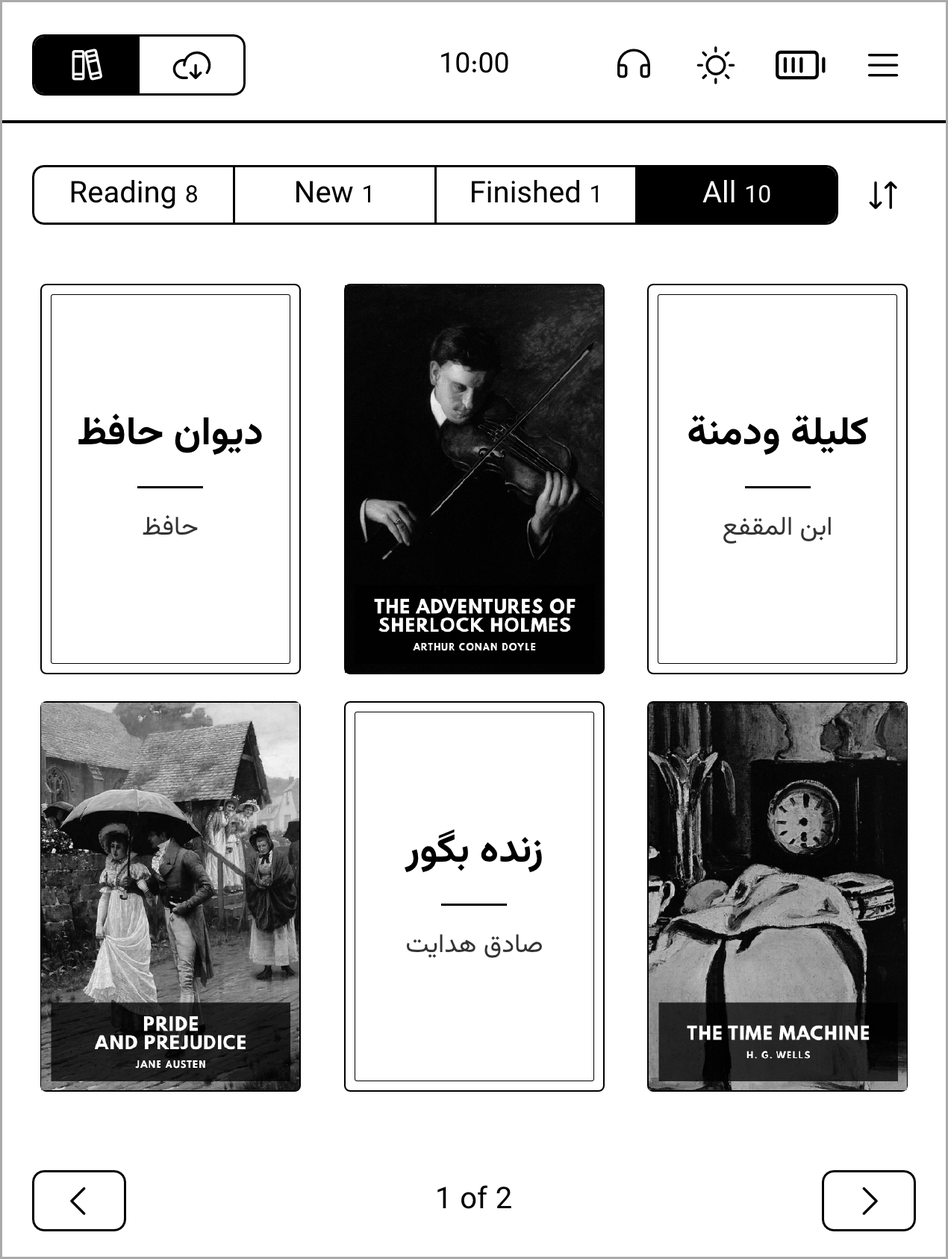
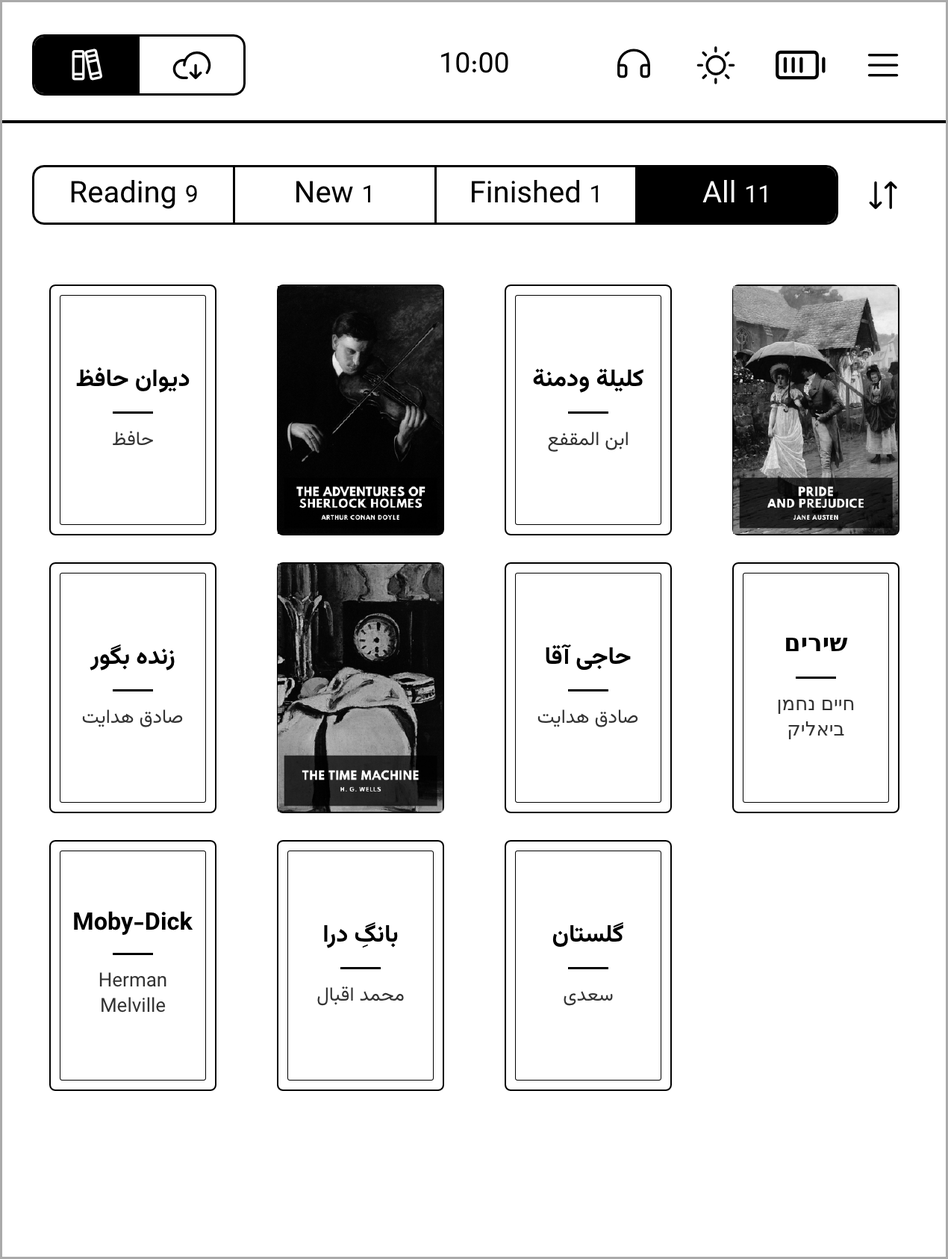
Library: four covers a row, three rows a page; the year in the book's dialog
Twelve books a page in place of six: half the page turns, each a full refresh on e-ink; a cover about 2 cm wide
is still recognised (3 by 3 left a wide gap between its columns for no larger cover). The covers of words scale
with the cover: the title's sizes in proportion, the author never under 26 px (about 6 pt at 300 ppi), the sides
clear of the frame. The year is off the covers (3.4 pt there) and in the book's dialog as Published. The kept
cover pictures are made for the narrower tile. A catalogue's grid stays three a row. The README's library
screenshot drawn anew: eleven books on one page.

diff --git a/docs/design/system.html b/docs/design/system.html
@@ -81,7 +81,7 @@ dialog#view .close { position: sticky; top: 0; float: right; font: inherit; font
 <div class="card"><b>Rule: A panel closes to where it came from</b><p>A tap outside a panel closes the panel and leaves the bar and dock it was opened from; a second tap on the page closes those. (Decided 2026-11-01 after use: kept, it saves a tap when moving between Light and Text.)</p><small>Kept by: by eye (the device walk closes Light, then uses the bar)</small></div>
 <div class="card"><b>Rule: A control says what it is</b><p>A control whose value alone does not say what it sets has its name at the start of its line, regular, in the ink&#39;s colour, the control after it with its value regular (a setting&#39;s row: Sleep after, Follow book language; a labelled dropdown: Catalogue). Neither is bold; the control&#39;s border marks what is tapped. One under a heading, or whose value says it, has no name. As Apple&#39;s settings rows, Material&#39;s list items and WCAG&#39;s labels (2.4.6, 3.3.2): a name that stays, not a placeholder (2026-11-23).</p><small>Kept by: by eye (the samples of the dropdown, stepper and toggle on the page)</small></div>
 <div class="card"><b>Rule: Direction is declared, not guessed</b><p>A piece of content&#39;s direction is the one its source declares: a book&#39;s title and author the book&#39;s language (its dc:language), a feed&#39;s text its own language when the feed gives one (xml:lang). Never one assumed from something else: a feed&#39;s summary, publisher or subjects, a value in a book&#39;s details are not the book&#39;s, and a feed may summarise a Farsi book in English, as FarsiEPUB&#39;s (2026-11-24). Undeclared, it is the engine&#39;s to decide with the standard, dir=&#34;auto&#34; on its block (HTML&#39;s rule, from its own letters), never our own code; ours (textdir) only where the engine falls short, saying why in the template (a list&#39;s row: the engine&#39;s dir=&#34;auto&#34; leaves its indent on the list&#39;s side). A run inside a line goes in a bdi (dir=&#34;auto&#34; by default, HTML&#39;s and the engine&#39;s); text that fills lines (a summary) takes dir=&#34;auto&#34; on its block, which also aligns it. Checked: every value a template writes as text says its direction, or is listed as the interface&#39;s words with why (TestTextSaysItsDirection). As HTML&#39;s dir attribute and W3C&#39;s guidance on bidirectional text (declare the direction where it is known, dir=&#34;auto&#34; where it is not).</p><small>Kept by: test (TestTextSaysItsDirection); by eye (catalogue-book&#39;s farsi-english-summary)</small></div>
-<div class="card"><b>Rule: A book is its own cover</b><p>The library shows books as tiles, three a row and two rows a page, not rows (2026-11-23), each the shape of a book (2 by 3): its cover picture shown whole when it has one (made small once, when the book is added, never decoded as it is shown), else a cover of its own words (title, author, the year when it gives one) centred in its own direction, so books of both directions sit side by side with no column to share; its type a printed cover&#39;s, the title&#39;s size by its length (short ones large, long ones smaller so they fit), in a thin frame inside its edge (2026-11-24, after a cover of small words in a large box looked bare). Nothing on a tile: what it is and where the reader is with it (the share read, narrated, new, finished) are in the dialog a finger held on it opens, and in the filters; marks on covers (a ring, the headphones, a halo round them) were tried and left out: the covers read cleaner. A picture is the reader&#39;s choice per book (Cover: Picture or Words in that dialog), never a rule that hides some pictures and not others. A cover is never changed by dark mode. As Kobo&#39;s, Kindle&#39;s and Apple Books&#39; grids, and Nielsen Norman Group&#39;s advice (grids for recognising things at a glance, a few large targets on e-ink over many small ones).</p><small>Kept by: by eye (the library&#39;s renders: covers, covers-dark, a mixed shelf)</small></div>
+<div class="card"><b>Rule: A book is its own cover</b><p>The library shows books as tiles, four a row and three rows a page (2026-11-24: twelve a page, half the page turns of three by two, a cover about 2 cm wide still recognised), not rows (2026-11-23), each the shape of a book (2 by 3): its cover picture shown whole when it has one (made small once, when the book is added, never decoded as it is shown), else a cover of its own words (title and author; the year in its dialog, too small to read on a cover this size) centred in its own direction, so books of both directions sit side by side with no column to share; its type a printed cover&#39;s, in proportion to the cover, the title&#39;s size by its length (short ones large, long ones smaller so they fit), the author never under about 6 pt, in a thin frame inside its edge (2026-11-24, after a cover of small words in a large box looked bare). Nothing on a tile: what it is and where the reader is with it (the share read, narrated, new, finished) are in the dialog a finger held on it opens, and in the filters; marks on covers (a ring, the headphones, a halo round them) were tried and left out: the covers read cleaner. A picture is the reader&#39;s choice per book (Cover: Picture or Words in that dialog), never a rule that hides some pictures and not others. A cover is never changed by dark mode. As Kobo&#39;s, Kindle&#39;s and Apple Books&#39; grids, and Nielsen Norman Group&#39;s advice (grids for recognising things at a glance, a few large targets on e-ink over many small ones).</p><small>Kept by: by eye (the library&#39;s renders: covers, covers-dark, a mixed shelf)</small></div>
 <div class="card"><b>Rule: Books as covers, words as rows</b><p>Books are shown as tiles wherever they are listed (the library, a catalogue&#39;s books, later search results): a book is recognised by its cover (A book is its own cover). Rows are for words: a book&#39;s chapters, a catalogue&#39;s Browse (its sections, authors, subjects), settings, menus. A row whose words may be in either direction carries nothing in a column shared with the other rows (a Farsi title would end before it, an English one start at the edge, the column lined up with neither); a section&#39;s › is the frame&#39;s, at the row&#39;s end. A book&#39;s state (the share read, a download under way, Read) goes under its tile or in its dialog, never in a column beside mixed titles (2026-11-23, after the library&#39;s rows). As Material&#39;s lists and image lists (text in lists, visual content in grids), Apple&#39;s Human Interface Guidelines (collections for items recognised by their image, tables for text and settings) and Nielsen Norman Group (grids to recognise at a glance, lists to scan text and details).</p><small>Kept by: by eye (the library&#39;s and the catalogue&#39;s renders: books as tiles; contents, Browse, settings and menus as rows)</small></div>
 <div class="card"><b>Rule: Only what the catalogue can answer</b><p>A catalogue&#39;s choices (Browse and filter) are only those it answers itself, in this order: its facets when it gives them (OPDS facets: it filters, counts and combines them); its sections, always (a link to another feed: a place, not a filter, so one is in force at most); its search when it declares one (OpenSearch, with the keyboard); and filters of our own from the books&#39; details only when the whole catalogue is in hand (a feed with no next page), so their counts are true. Never a filter over the one page loaded, and never a meaning read from a section&#39;s title (Updates, Nouveautés): titles are shown as the catalogue wrote them. A catalogue with none of these has no funnel (2026-11-23, after reading our four catalogues&#39; feeds: none has facets).</p><small>Kept by: by eye (the planned renders of catalogue-filters)</small></div>
 <div class="card"><b>Rule: Books on the catalogue&#39;s screen</b><p>A catalogue&#39;s main screen shows books, and choosing what to see is Browse and filter&#39;s (the funnel). Entered, a catalogue shows the books of the place it was added at; a front page of sections only, those of the section it marks newest (OPDS&#39;s sort/new), then featured or popular, then one whose link says it holds books, then the first of its sections that holds books (three read at most); its name in bold under the head, as a heading, not a control, so where the books come from is seen (Nielsen&#39;s first heuristic, WCAG 2.4.8). None found: the funnel&#39;s icon, Choose what to browse in this catalogue, and Browse, which opens the panel (an empty state says why and what next: Material 3, Nielsen Norman Group), never a list of sections on the main screen nor the panel opened by itself. Content first, the filters beside it, as GOV.UK&#39;s filter pattern and Apple&#39;s and Material&#39;s stores; the section as a second dropdown (Browse&#39;s place before 2026-11-23) was drawn and not chosen (2026-11-23).</p><small>Kept by: by eye (the catalogue&#39;s planned renders landing-heading and landing-choose)</small></div>
@@ -270,7 +270,7 @@ dialog#view .close { position: sticky; top: 0; float: right; font: inherit; font
 <article class="screen" id="screen-library" data-find="library screen built topbar-phones topbar-light topbar-battery topbar-menu shelf-library shelf-catalogues filter- list-sort list-prev list-next e">
 <a class="tile" href="#screen-library"><span class="head"><b>library</b> <span class="tag">screen</span><span class="tag">built</span><span class="tag">app starts here</span><span class="tag">buttons: {Ring down the list (past the end, the next page of it) Ring up the list Go there Back to the page}</span></span><img class="thumb" src="../../reader/design/golden/kobo-libra-colour/library-covers-dark-en.png" alt="" loading="lazy"></a><div class="body" hidden>
 <h3>library</h3>
-<p class="sub">The books as tiles (2026-11-23, in place of a row each), three a row and two rows a page, under the bar (its title the choice of Library and Catalogues, Library chosen) and the filters (Reading, New, Finished, All) with a sort button. Each tile the shape of a book: its cover picture shown whole (made small in the background when the book is added, the page drawn again once its covers are in), else a cover of its own words, title, author and the year its dc:date starts with, centred in the book&#39;s own direction on plain paper (a book&#39;s dialog chooses which). Nothing on a tile: a finger held on it opens its dialog (library-book-details). A cover is shown as it is in dark mode too. The grid runs left to right, as the frame. With no books in the filter chosen, one placeholder: No books here; when there are no books at all, also the folder on the device&#39;s drive that EPUB books go in.</p>
+<p class="sub">The books as tiles (2026-11-23, in place of a row each), four a row and three rows a page (2026-11-24), under the bar (its title the choice of Library and Catalogues, Library chosen) and the filters (Reading, New, Finished, All) with a sort button. Each tile the shape of a book: its cover picture shown whole (made small in the background when the book is added, the page drawn again once its covers are in), else a cover of its own words, title and author (the year its dc:date starts with in its dialog), centred in the book&#39;s own direction on plain paper (a book&#39;s dialog chooses which). Nothing on a tile: a finger held on it opens its dialog (library-book-details). A cover is shown as it is in dark mode too. The grid runs left to right, as the frame. With no books in the filter chosen, one placeholder: No books here; when there are no books at all, also the folder on the device&#39;s drive that EPUB books go in.</p>
 <table><tr><th>Control</th><th>Component</th><th>Does</th><th>When</th></tr>
 <tr><td><code>topbar-phones</code></td><td><a href="#component-icon-button">icon-button</a></td><td>goto → <a href="#screen-sound">sound</a></td><td> <span class="tag">needs sound</span></td></tr><tr><td><code>topbar-light</code></td><td><a href="#component-icon-button">icon-button</a></td><td>goto → <a href="#screen-light">light</a></td><td></td></tr><tr><td><code>topbar-battery</code></td><td><a href="#component-button">button</a></td><td>goto → <a href="#screen-battery">battery</a></td><td></td></tr><tr><td><code>topbar-menu</code></td><td><a href="#component-icon-button">icon-button</a></td><td>goto → <a href="#screen-menu">menu</a></td><td></td></tr><tr><td><code>shelf-library</code></td><td><a href="#component-segments">segments</a></td><td>goto → <a href="#screen-shelf-name">shelf-name</a></td><td></td></tr><tr><td><code>shelf-catalogues</code></td><td><a href="#component-segments">segments</a></td><td>goto → <a href="#screen-catalogue">catalogue</a></td><td></td></tr><tr><td><code>filter-</code></td><td><a href="#component-segments">segments</a></td><td>shows the books of a filter (reading, new, finished, all)</td><td></td></tr><tr><td><code>list-sort</code></td><td><a href="#component-icon-button">icon-button</a></td><td>goto → <a href="#screen-library-sort">library-sort</a></td><td></td></tr><tr><td><code>list-prev</code></td><td><a href="#component-icon-button">icon-button</a></td><td>the previous page of rows</td><td></td></tr><tr><td><code>list-next</code></td><td><a href="#component-icon-button">icon-button</a></td><td>the next page of rows</td><td></td></tr><tr><td><code>e</code></td><td><a href="#component-list-row">list-row</a></td><td>goto → <a href="#screen-reading">reading</a></td><td></td></tr></table>
 <div class="shots"><div class="case"><figure><img src="../../reader/design/golden/kobo-libra-colour/library-covers-dark-en.png" width="421" alt="library, covers-dark, en" loading="lazy"><figcaption>covers-dark · en <span class="tag">built</span></figcaption></figure></div><div class="case"><figure><img src="../../reader/design/golden/kobo-libra-colour/library-covers-en.png" width="421" alt="library, covers, en" loading="lazy"><figcaption>covers · en <span class="tag">built</span></figcaption></figure></div><div class="case"><figure><img src="../../reader/design/golden/kobo-libra-colour/library-empty-en.png" width="421" alt="library, empty, en" loading="lazy"><figcaption>empty · en <span class="tag">built</span></figcaption></figure></div><div class="case"><figure><img src="../../reader/design/golden/kobo-libra-colour/library-empty-filter-en.png" width="421" alt="library, empty-filter, en" loading="lazy"><figcaption>empty-filter · en <span class="tag">built</span></figcaption></figure></div><div class="case"><figure><img src="../../reader/design/golden/kobo-libra-colour/library-guide-en.png" width="421" alt="library, guide, en" loading="lazy"><figcaption>guide · en <span class="tag">built</span></figcaption></figure></div><div class="case"><figure><img src="../../reader/design/golden/kobo-libra-colour/library-marks-en.png" width="421" alt="library, marks, en" loading="lazy"><figcaption>marks · en <span class="tag">built</span></figcaption></figure></div><div class="case"><figure><img src="../../reader/design/golden/kobo-libra-colour/library-new-en.png" width="421" alt="library, new, en" loading="lazy"><figcaption>new · en <span class="tag">built</span></figcaption></figure></div><div class="case"><figure><img src="../../reader/design/golden/kobo-libra-colour/library-page-2-en.png" width="421" alt="library, page-2, en" loading="lazy"><figcaption>page-2 · en <span class="tag">built</span></figcaption></figure></div><div class="case"><figure><img src="../../reader/design/golden/kobo-libra-colour/library-reading-en.png" width="421" alt="library, reading, en" loading="lazy"><figcaption>reading · en <span class="tag">built</span></figcaption></figure></div></div>

diff --git a/reader/ui/templates/library-tiles.html b/reader/ui/templates/library-tiles.html
@@ -1,8 +1,8 @@
 {{/* The library as tiles (tiles.go, NewLibraryTiles; 2026-11-23, in place of its rows): a page of tiles, Cols a row,
 laid out whole (a page of its own, so no tile is cut across two). Each tile book-shaped (2 by 3, CoverW by Cover),
 centred in its column: its cover picture shown whole (painted by tiles.go into the box left for it), else a cover of
-the book's own words in its own direction (title bold, a short rule, the author, the year at the foot when the book
-gives one), centred, on plain paper with an ink border. No marks on a tile (2026-11-23): what it is and where the reader is with it are in the
+the book's own words in its own direction (title bold, a short rule, the author; the year is in its dialog, 2026-11-24),
+centred, on plain paper with an ink border. No marks on a tile (2026-11-23): what it is and where the reader is with it are in the
 dialog a finger held on it opens (library-book-details.html). The grid runs left to right, as the frame; a page short of books is filled with blank slots, so its tiles start
 at the top left, where a full page's do. */ -}}
 {{template "head" "ltr"}}<style>
@@ -14,18 +14,16 @@ at the top left, where a full page's do. */ -}}
 .cover[dir="rtl"] .tl-t { line-height: 1.4; }
 .cover .tl-rule { width: 1.6em; border-top: 2px solid var(--ink); margin: 0.5em 0; }
 .cover .tl-a { font-size: 0.6em; line-height: 1.3; color: #333; }
-.cover .tl-y { position: absolute; left: 0; right: 0; bottom: 0.55em; font-size: 0.52em; color: #444; font-family: "DejaVu Sans", Vazirmatn, sans-serif; }
 /* the library's covers of words (2026-11-24): the type a printed cover's, by the title's length (tiles.go,
    titleSize), in a frame; a catalogue's shorter covers keep the small type above */
-.cover.s, .cover.m, .cover.l { padding: 1.45em 0.6em 1.6em; }
+.cover.s, .cover.m, .cover.l { padding: 1.45em 1em 1.6em; font-size: {{.CoverFont}}px; } /* the sides clear of the frame (12 px in) */
 .cover.s .tl-t { font-size: 1.2em; }
 .cover.m .tl-t { font-size: 1em; }
 .cover.l .tl-t { font-size: 0.82em; }
-.cover.s .tl-a, .cover.m .tl-a, .cover.l .tl-a { font-size: 0.8em; }
+.cover.s .tl-a, .cover.m .tl-a, .cover.l .tl-a { font-size: {{.WhoFont}}px; } /* never under 26 px (tiles.go, whoFont) */
 .cover.s .tl-rule, .cover.m .tl-rule, .cover.l .tl-rule { width: 2em; border-top-width: 3px; margin: 0.7em 0; }
 /* a thin frame inside the edge, as a printed cover's rule round its title */
 .cover .tl-frame { position: absolute; top: 12px; left: 12px; right: 12px; bottom: 12px; border: 1.5px solid var(--ink); border-radius: 3px; }
-.cover.s .tl-y, .cover.m .tl-y, .cover.l .tl-y { bottom: 1.15em; }
 .cover.pic { padding: 0; }
 .cover.blank { border: 0; } /* an empty slot: a page's tiles keep a full page's places (tiles.go) */
 /* a catalogue's book (planned, 2026-11-23): its button under the cover, the cover's width, as the rows' was: the
@@ -38,7 +36,6 @@ at the top left, where a full page's do. */ -}}
 .tl-end { margin: 0; color: white; font-size: 4px; line-height: 1; } /* a line of text after the last row: the engine's page ends at a line, so its edges are kept */
 </style></head><body><div class="tiles">
 {{- range .Tiles}}{{if .Blank}}<div class="tl"><div class="cover blank"></div></div>{{continue}}{{end}}<div class="tl" id="{{.ID}}"><div class="cover{{if .Pic}} pic{{end}}{{with .Size}} {{.}}{{end}}" dir="{{.Dir}}"{{textlang .Title}}{{if .Pic}} id="cov-{{.ID}}"{{end}}>
-{{- if not .Pic}}{{if .Size}}<span class="tl-frame"></span>{{end}}<span class="tl-t">{{.Title}}</span>{{if .Author}}<span class="tl-rule"></span><span class="tl-a">{{.Author}}</span>{{end}}
-{{- with .Year}}<span class="tl-y">{{.}}</span>{{end}}{{end}}</div>
+{{- if not .Pic}}{{if .Size}}<span class="tl-frame"></span>{{end}}<span class="tl-t">{{.Title}}</span>{{if .Author}}<span class="tl-rule"></span><span class="tl-a">{{.Author}}</span>{{end}}{{end}}</div>
 {{- if .Act}}<span class="act{{if eq .Act "read"}} read{{end}}" id="{{.ID}}-act">{{if eq .Act "read"}}{{.Read}}{{else if eq .Act "share"}}<bdi dir="ltr">{{.Share}}</bdi>{{else}}{{icon "download-simple"}}{{end}}</span>{{end}}</div>
 {{- end}}</div><p class="tl-end">.</p></body></html>

diff --git a/reader/ui/tiles.go b/reader/ui/tiles.go
@@ -9,16 +9,16 @@ import (
 	blitz "shamsainkengine"
 )
 
-// The library as tiles (2026-11-23, in place of its rows): a book a tile, three a row, two rows a page, each the shape
-// of a book (2 by 3): its cover picture shown whole when it has one (kept small when the book was added,
-// library/covers.go), else a cover of its own words (title, author, the year when it gives one) in its own direction,
+// The library as tiles (2026-11-23, in place of its rows): a book a tile, four a row, three rows a page (2026-11-24),
+// each the shape of a book (2 by 3): its cover picture shown whole when it has one (kept small when the book was added,
+// library/covers.go), else a cover of its own words (title and author; the year is in its dialog) in its own direction,
 // centred on plain paper, so a mixed shelf has no column to share. No marks on a tile: the share read, narrated, new
 // and finished are in the dialog a finger held on it opens (DrawBookDetails), and the filters.
 
 type tile struct {
-	ID, Title, Author, Year, Dir string
-	Size                         string // the library's cover of words, its title's size (titleSize); "" for a catalogue's, small
-	Pic                          bool
+	ID, Title, Author, Dir string
+	Size                   string // the library's cover of words, its title's size (titleSize); "" for a catalogue's, small
+	Pic                    bool
 	// a catalogue's book (planned, 2026-11-23): its button under the cover, eN-act: "get" (the download icon), "share"
 	// (Share, how much has come), "read" (Read, filled); "" none (the library's)
 	Act, Share, Read string
@@ -76,22 +76,23 @@ func paintPicture(img *image.Gray, r image.Rectangle, pic *image.Gray, inverted 
 
 // The library's grid, and the longest a title and an author may be on a cover, in letters: the engine cuts no text.
 const (
-	tileCols, tileRows  = 3, 2
+	tileCols, tileRows  = 4, 3 // the library's grid (2026-11-24: twelve a page, half the page turns of 3 by 2)
+	catalogueCols       = 3    // a catalogue's: wider covers of words, a button under each
 	tileTitle, tileWho  = 48, 28
 	tileMargin, tileGap = 40, 36 // the page's margin; between tiles
 	tileSlack           = 12     // the line after the last row (4 px of text), which keeps its edges (the engine's page ends at a line)
 )
 
-// NewLibraryTiles lays out the library (docs/design/system.html) as tiles under head, six a page (e0, e1... over all
+// NewLibraryTiles lays out the library (docs/design/system.html) as tiles under head, twelve a page (e0, e1... over all
 // pages, as the rows were: EntryAt and EntryBox the same), each page laid out when first shown, every page's slots
-// in the same places; a pager when there are more than six. With no books, the rows' placeholder (NewLibrary).
+// in the same places; a pager when there are more than twelve. With no books, the rows' placeholder (NewLibrary).
 func NewLibraryTiles(books []Book, folder string, head *Panel, fonts *blitz.Fonts, w, h int) *List {
 	if len(books) == 0 {
 		return NewLibrary(nil, folder, head, fonts, w, h)
 	}
 	ts := make([]tile, len(books))
 	for i, b := range books {
-		t := tile{ID: fmt.Sprint("e", i), Title: cut(b.Title, tileTitle), Author: cut(b.Author, tileWho), Year: b.Year,
+		t := tile{ID: fmt.Sprint("e", i), Title: cut(b.Title, tileTitle), Author: cut(b.Author, tileWho),
 			Dir: dirOf(b.RTL)}
 		t.Pic = b.Cover != nil || b.CoverFile != ""
 		t.Size = titleSize(t.Title)
@@ -107,7 +108,7 @@ func NewLibraryTiles(books []Book, folder string, head *Panel, fonts *blitz.Font
 			}
 		}
 		return pic
-	}, tileRows, head, fonts, w, h)
+	}, tileCols, tileRows, head, fonts, w, h)
 }
 
 // titleSize is the size of a cover of words' title, by its length: short ones big, as a printed cover's, long ones
@@ -122,15 +123,23 @@ func titleSize(title string) string {
 	return "l"
 }
 
+// coverFont is a cover of words' type size, in px, for a cover w px wide: 44 on a cover 354 px wide (3 by 2 on the
+// Kobo), in proportion on smaller ones (about 28 on 4 by 3's 222); the title's sizes are ems of it.
+func coverFont(w int) int { return 44 * w / 354 }
+
+// whoFont is the author's size on a cover of words, in px: 0.8 of coverFont, never under 26 (about 6 pt at 300 ppi),
+// so a small cover's author stays readable (2026-11-24).
+func whoFont(w int) int { return max(26, coverFont(w)*8/10) }
+
 // tileAct is the room under a cover for a catalogue book's button and the gap before it, in px (planned).
 const tileAct = 80
 
-// newTiles lays out tiles under head, three a row and rows rows a page, pic giving tile i's cover picture when it has
-// one. The library's (two rows) are book-shaped, 2 by 3, so a picture shows whole; with a button under each (Act: a
+// newTiles lays out tiles under head, cols a row and rows rows a page, pic giving tile i's cover picture when it has
+// one. The library's are book-shaped, 2 by 3, so a picture shows whole; with a button under each (Act: a
 // catalogue's, three rows, 2026-11-23) a tile is a cover of words alone, its column's width and the rows' height less
 // the button's room: no picture to keep the shape for, so more books a page.
-func newTiles(ts []tile, pic func(i int) *image.Gray, rows int, head *Panel, fonts *blitz.Fonts, w, h int) *List {
-	per := tileCols * rows
+func newTiles(ts []tile, pic func(i int) *image.Gray, cols, rows int, head *Panel, fonts *blitz.Fonts, w, h int) *List {
+	per := cols * rows
 	v := &List{head: head, fonts: fonts, w: w, h: h, docs: map[int]*blitz.Book{}}
 	pager := v.drawPager(0, 2) // its height does not depend on the count
 	lh := h - head.img.Rect.Dy() - pager.img.Rect.Dy()
@@ -141,7 +150,7 @@ func newTiles(ts []tile, pic func(i int) *image.Gray, rows int, head *Panel, fon
 		act = tileAct
 	}
 	cover := (lh-2*tileMargin-tileSlack-(rows-1)*tileGap)/rows - act
-	col := (w - 2*tileMargin - (tileCols-1)*tileGap) / tileCols
+	col := (w - 2*tileMargin - (cols-1)*tileGap) / cols
 	coverW := min(cover*2/3, col)  // a book's shape, 2 by 3: a cover's picture shown whole
 	cover = min(cover, coverW*3/2) // on a wide screen the width decides: the shape kept
 	align := "center"              // the library's rows in the middle of the page
@@ -164,7 +173,8 @@ func newTiles(ts []tile, pic func(i int) *image.Gray, rows int, head *Panel, fon
 			Cover, CoverW, Gap int
 			Room               int
 			Align              string
-		}{page(p), tileCols, cover, coverW, tileGap, room, align})
+			CoverFont, WhoFont int
+		}{page(p), cols, cover, coverW, tileGap, room, align, coverFont(coverW), whoFont(coverW)})
 		return html
 	}
 	v.paint = func(d *blitz.Book, img *image.Gray) {
@@ -190,7 +200,8 @@ func newTiles(ts []tile, pic func(i int) *image.Gray, rows int, head *Panel, fon
 		Cover, CoverW, Gap int
 		Room               int
 		Align              string
-	}{full, tileCols, cover, coverW, tileGap, room, align})
+		CoverFont, WhoFont int
+	}{full, cols, cover, coverW, tileGap, room, align, coverFont(coverW), whoFont(coverW)})
 	probe := blitz.New([]string{"list.html"}, readFor(html), v.opts, fonts)
 	probe.Layout(0)
 	slots, acts := make([]image.Rectangle, per), make([]image.Rectangle, per)

diff --git a/reader/ui/design_render_test.go b/reader/ui/design_render_test.go
@@ -89,16 +89,12 @@ func libraryTopBar() TopBar {
 	return TopBar{Time: "20:48", Phones: renderHas("sound"), Battery: 82, Menu: true}
 }
 
-// designTiles is designBooks with the years their books would give (one without).
+// designTiles is the library's shelf as tiles: designBooks and four more new ones, so it runs to a second page of
+// twelve (four by three, 2026-11-24) and draws the pager.
 func designTiles() []Book {
 	bs := designBooks()
-	years := []string{"1851", "۱۳۹۸", "1923", "", "1888", "۱۴۰۱"}
-	for i := range bs {
-		if i < len(years) {
-			bs[i].Year = years[i]
-		} else {
-			bs[i].Year = "2026"
-		}
+	for i := range 4 {
+		bs = append(bs, Book{Title: fmt.Sprintf("Another new book %d", i), Author: "Someone Else", New: true, Read: -1})
 	}
 	return bs
 }
@@ -115,12 +111,12 @@ func tiles(bs []Book, head *Panel, page int, f *blitz.Fonts, w, h int) rendered 
 // tiles' marks, in the All filter.
 func markBooks() []Book {
 	return []Book{
-		{Title: "A Long Voyage", Author: "An Author", Year: "1851", Read: 62, Narrated: true},
-		{Title: "رود کمآب", Author: "مارا الیس", Year: "۱۳۹۸", Read: 100, Finished: true, RTL: true},
-		{Title: "Tales of a Small Town", Author: "Another Author", Year: "1923", New: true, Read: -1},
-		{Title: "سفر به ماه", Year: "۱۴۰۱", Read: 8, RTL: true},
+		{Title: "A Long Voyage", Author: "An Author", Read: 62, Narrated: true},
+		{Title: "رود کمآب", Author: "مارا الیس", Read: 100, Finished: true, RTL: true},
+		{Title: "Tales of a Small Town", Author: "Another Author", New: true, Read: -1},
+		{Title: "سفر به ماه", Read: 8, RTL: true},
 		{Title: "زنده به گور", Author: "صادق هدایت", New: true, Narrated: true, Read: -1, RTL: true},
-		{Title: "The Lighthouse Keeper", Author: "A Patient Author", Year: "1888", Read: 91},
+		{Title: "The Lighthouse Keeper", Author: "A Patient Author", Read: 91},
 	}
 }
 
@@ -500,7 +496,7 @@ var designRenders = map[string][]renderCase{
 	}}},
 	"library-book-details": {{"new", en, func(f *blitz.Fonts, w, h int) rendered {
 		return rel(DrawBookDetails(BookDetails{Title: "Tales of a Small Town", Author: "Another Author", Lang: "en", File: "tales.epub",
-			Size: 1 << 20, Read: -1, Added: designDay(2)}, f, w))
+			Size: 1 << 20, Read: -1, Added: designDay(2), Year: "1923"}, f, w))
 	}}, {"opened", en, func(f *blitz.Fonts, w, h int) rendered {
 		return rel(DrawBookDetails(BookDetails{Title: "A Long Voyage", Author: "An Author", Lang: "en", Source: "a folder", File: "a-long-voyage.epub",
 			Size: 3 << 20, Narrated: true, Opened: true, Read: 42, Added: designDay(2), LastRead: designDay(30)}, f, w))

diff --git a/reader/ui/library.go b/reader/ui/library.go
@@ -20,7 +20,6 @@ type Book struct {
 	Finished      bool        // read to the end: no bar
 	RTL           bool        // its title reads right to left
 	When          string      // a date shown at the row's end in place of the share read: when added (New), finished (Finished); "" for none
-	Year          string      // the year the book gives (its dc:date's), "" when it gives none: on a tile's cover
 	Cover         *image.Gray // its cover picture made small, nil for none: drawn in place of its words
 	CoverFile     string      // or the file that picture is kept in (library.CoverFile), read when its page is drawn
 }
@@ -326,6 +325,7 @@ type BookDetails struct {
 	Picture, Words                    bool // it has a cover picture; its cover of words chosen in its place
 	Read                              int  // percent read; -1 when not known
 	Added, LastRead                   time.Time
+	Year                              string // the year the book gives (its dc:date's), "" when none: Published
 }
 
 // DrawBookDetails draws a book's details and its actions (templates/library-book-details.html), a dialog: the caller
@@ -354,6 +354,9 @@ func DrawBookDetails(d BookDetails, fonts *blitz.Fonts, w int) *Panel {
 		{word("last-read"), date(d.LastRead)},
 		{word("added"), date(d.Added)},
 		{word("language"), lang},
+	}
+	if d.Year != "" { // off the covers since 4 by 3 (2026-11-24): too small to read there
+		rows = append(rows, [2]string{word("published"), d.Year})
 	}
 	if d.Source != "" {
 		rows = append(rows, [2]string{word("source"), d.Source})

diff --git a/reader/covers.go b/reader/covers.go
@@ -28,7 +28,8 @@ func coversToMake(shown []library.Item, all []library.Item, made map[string]bool
 // makeCovers makes books' small covers in turn, for a screen w wide (a tile's width, a book's shape: 2 by 3), each
 // one's hash sent on out once kept, until done or stop is closed (a book opened: the processor is the book's).
 func makeCovers(dir string, books []library.Book, w int, out chan<- string, stop <-chan struct{}) {
-	tw := (w - 2*40 - 2*36) / 3 // ui's tiles: three a row, the page's margins and the gaps between
+	tw := (w - 2*40 - 3*36) / 4 // ui's tiles: four a row, the page's margins and the gaps between (a wide row's width;
+	// a cover kept bigger from before 2026-11-24 is drawn smaller, as it is)
 	for _, b := range books {
 		select {
 		case <-stop:

diff --git a/reader/librarybook.go b/reader/librarybook.go
@@ -134,7 +134,8 @@ func bookDetails(dir string, b library.Item, set *settings) ui.BookDetails {
 	d := ui.BookDetails{Title: b.Title, Author: b.Author, Lang: library.Lang(b.Book), Source: b.Source,
 		File: filepath.Base(b.Path), RTL: writtenRTL(library.Lang(b.Book)), Narrated: b.Narrated,
 		Picture: b.Cover != "", Words: set.Cover[b.ID] == "words",
-		Opened: b.Opened, Finished: b.Finished(), Read: -1, Added: time.Unix(b.Added, 0), Copies: 1 + len(b.Copies)}
+		Opened: b.Opened, Finished: b.Finished(), Read: -1, Added: time.Unix(b.Added, 0), Copies: 1 + len(b.Copies),
+		Year: b.Year}
 	if st, err := os.Stat(filepath.Join(dir, b.Path)); err == nil {
 		d.Size = st.Size()
 	}

diff --git a/reader/libraryview.go b/reader/libraryview.go
@@ -301,7 +301,7 @@ func (s *libraryScreen) build() {
 	library.Sort(s.items, s.view.SortOf(s.filter))
 	rows := make([]ui.Book, len(s.items))
 	for i, b := range s.items {
-		rows[i] = ui.Book{Title: b.Title, Author: b.Author, Year: b.Year, Read: -1, New: !b.Opened && !b.Finished() && library.Filters[s.filter] != "new",
+		rows[i] = ui.Book{Title: b.Title, Author: b.Author, Read: -1, New: !b.Opened && !b.Finished() && library.Filters[s.filter] != "new",
 			Finished: b.Finished(), Narrated: b.Narrated,
 			RTL: writtenRTL(library.Lang(b.Book))}
 		switch library.Filters[s.filter] {

diff --git a/reader/ui/catalogue.go b/reader/ui/catalogue.go
@@ -135,7 +135,7 @@ func NewCatalogueTiles(c CatalogueView, head *Panel, fonts *blitz.Fonts, w, h in
 		}
 		ts[i] = t
 	}
-	l := newTiles(ts, nil, catalogueRows, head, fonts, w, h)
+	l := newTiles(ts, nil, catalogueCols, catalogueRows, head, fonts, w, h)
 	if c.More { // more to read: › on the last page reads it (libraryview.go), the count says so
 		l.more = true
 		l.pager = l.drawPager(0, l.pages)

diff --git a/docs/DESIGN.md b/docs/DESIGN.md
@@ -164,12 +164,12 @@ flowchart LR
   Their renders: the dock's and contents' case `rtl-book`, in English.
 
 ### The library as tiles (2026-11-23)
-The library shows its books as tiles, three a row and two rows a page, in place of a row each (`reader/ui/tiles.go`,
+The library shows its books as tiles, four a row and three rows a page (3 by 2 until 2026-11-24), in place of a row each (`reader/ui/tiles.go`,
 `library-tiles.html`; the rule "A book is its own cover", `principles.yaml`). Each tile is the shape of a book (2 by
-3): its cover picture shown whole when it has one, else a cover of its own words (title, author and the year its
-`dc:date` starts with), centred in the book's direction, so a mixed shelf has no column to share. A page of tiles is
+3): its cover picture shown whole when it has one, else a cover of its own words (title and author, its type in proportion to
+the cover; the year its `dc:date` starts with is in its dialog), centred in the book's direction, so a mixed shelf has no column to share. A page of tiles is
 laid out on its own (the engine cuts pages between lines of text, which could cut a tile across two), when first
-shown; every page's six slots are in the same places, so a tap is placed without laying the page out
+shown; every page's twelve slots are in the same places, so a tap is placed without laying the page out
 (`List.pageHTML`).
 
 - **Nothing on a tile.** What a tile used to mark (the share read, narrated, new, finished) is in the dialog a finger
@@ -182,7 +182,7 @@ shown; every page's six slots are in the same places, so a tap is placed without
 - **Covers** (`reader/library/covers.go`). The scan notes each book's cover picture (`Book.Cover`: the manifest's
   `cover-image`, else the item EPUB 2's `<meta name="cover">` names; library.json's metadata version 3). Decoding one
   as it is shown costs too much on these chips (measured on the Kindle: Standard Ebooks' 1400×2100 JPEGs 420–460 ms
-  each, six a page), so each is made once into a small grey PNG, `covers/HASH.png` beside `cache/` (by the book's
+  each, twelve a page), so each is made once into a small grey PNG, `covers/HASH.png` beside `cache/` (by the book's
   hash: a new edition has its own), at the least size filling a tile (a JPEG's grey is its Y plane, read straight:
   scaling 40 ms). It is made in the background while the library is open (`reader/covers.go`: the books shown first;
   stopped when a book opens, carried on next time), each one's hash sent to the library's loop, which draws the page

diff --git a/README.md b/README.md
@@ -21,7 +21,7 @@
 <th width="25%">Arabic<br><sub>reading: nothing but the page</sub></th>
 </tr>
 <tr>
-<td valign="top"><img src="docs/images/screen-library.png" alt="The library as a shelf of covers: Standard Ebooks' covers of The Adventures of Sherlock Holmes, Pride and Prejudice and The Time Machine beside Farsi and Arabic books shown by their title and author in their own direction"></td>
+<td valign="top"><img src="docs/images/screen-library.png" alt="The library as a shelf of covers, four a row: Standard Ebooks' covers of The Adventures of Sherlock Holmes, Pride and Prejudice and The Time Machine beside Farsi, Arabic, Hebrew, Urdu and English books shown by their title and author in their own direction"></td>
 <td valign="top"><img src="docs/images/screen-farsi-dock.png" alt="A page of Buried Alive (FarsiEPUB) with the bar and the dock open, laid out right to left in Farsi"></td>
 <td valign="top"><img src="docs/images/screen-english.png" alt="A page of The Adventures of Sherlock Holmes (Standard Ebooks) with the bar and the dock open"></td>
 <td valign="top"><img src="docs/images/screen-arabic.png" alt="A page in Arabic with nothing else on the screen: the chapter's title and its text (our own test book)"></td>
